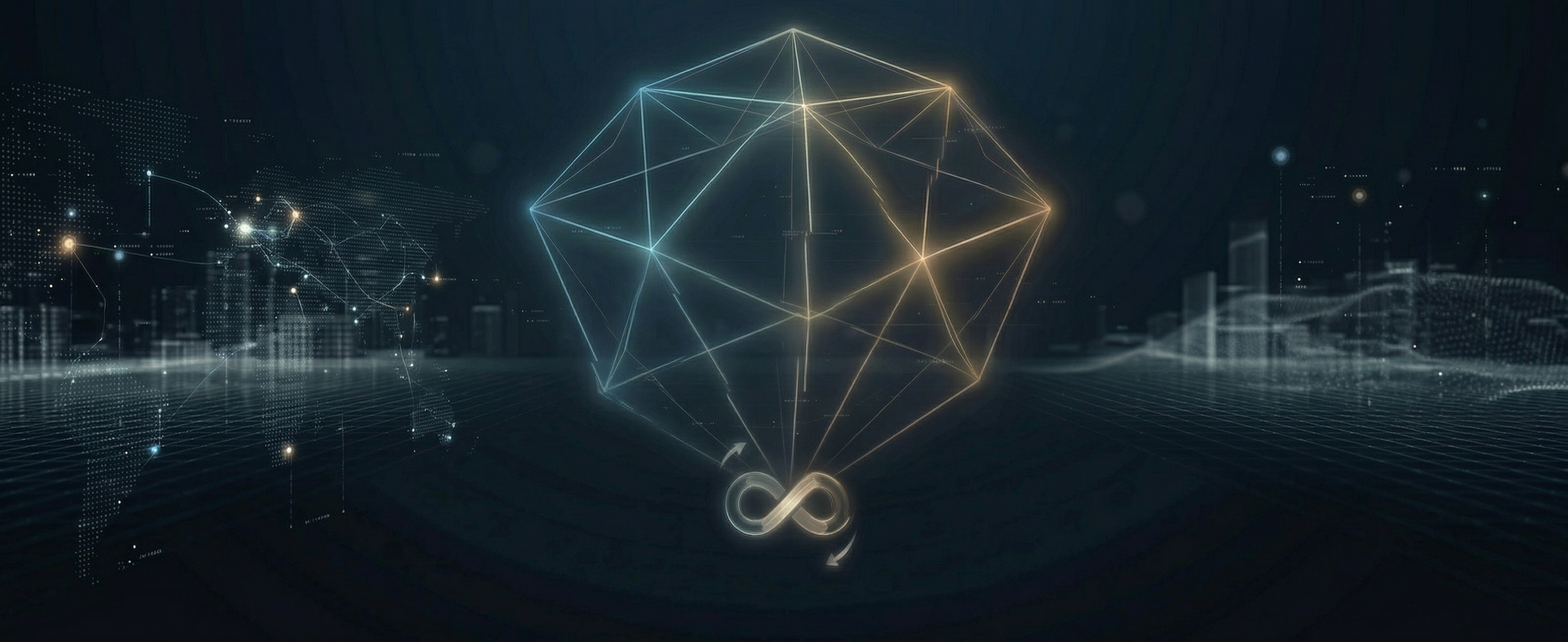
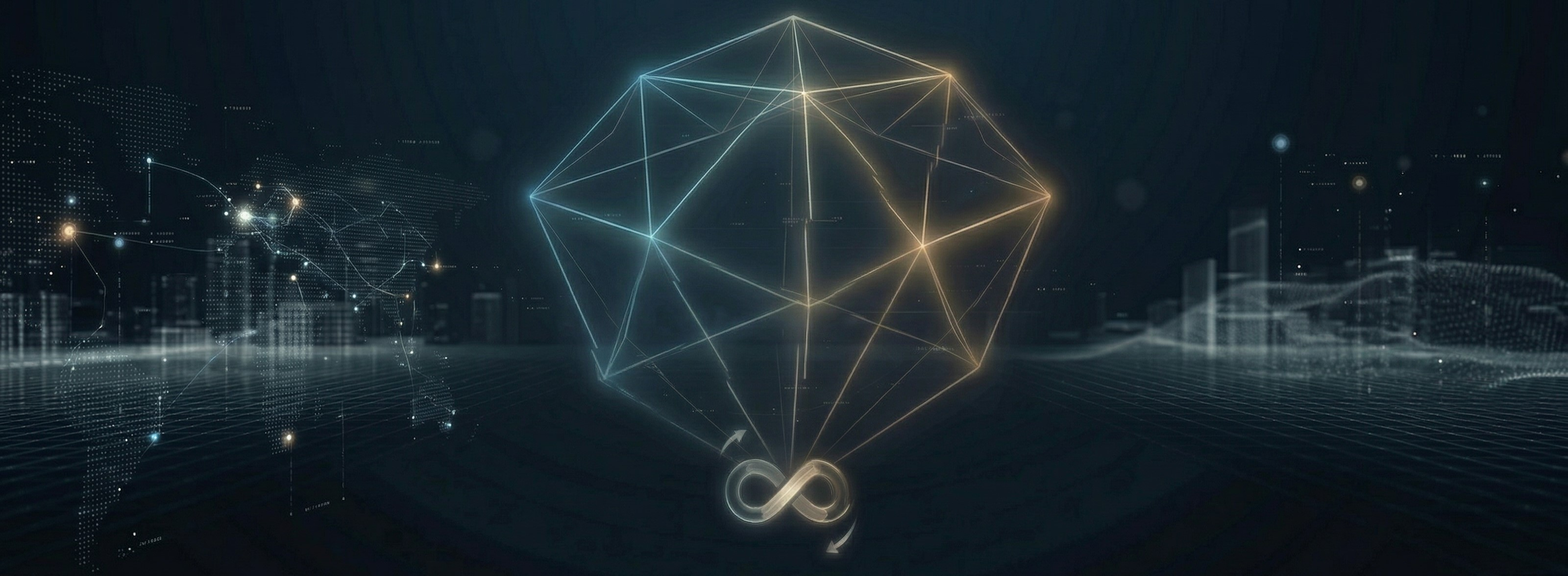
vision title img update

diff --git a/app/page.tsx b/app/page.tsx
@@ -128,15 +128,14 @@ export default function Home() {
         variants={fadeUp}
         className="py-40 px-6 border-t border-white/10"
       >
-        <div className="relative w-full mb-20 overflow-hidden rounded-2xl max-h-[320px] md:max-h-[480px]">
+        <div className="relative w-full mb-20 overflow-hidden rounded-2xl" style={{ aspectRatio: "3200 / 1177" }}>
           <Image
             src="/vision_title2.jpg"
             alt="AROTECH 비전 - Design, System, Experience"
-            width={3200}
-            height={1312}
+            fill
             sizes="100vw"
             quality={80}
-            className="w-full h-full object-cover"
+            className="object-contain"
           />
           <div className="absolute inset-0 z-10 flex flex-col items-center justify-center px-6">
             <h2 className="text-4xl md:text-5xl lg:text-6xl font-extrabold mb-6 text-center">
